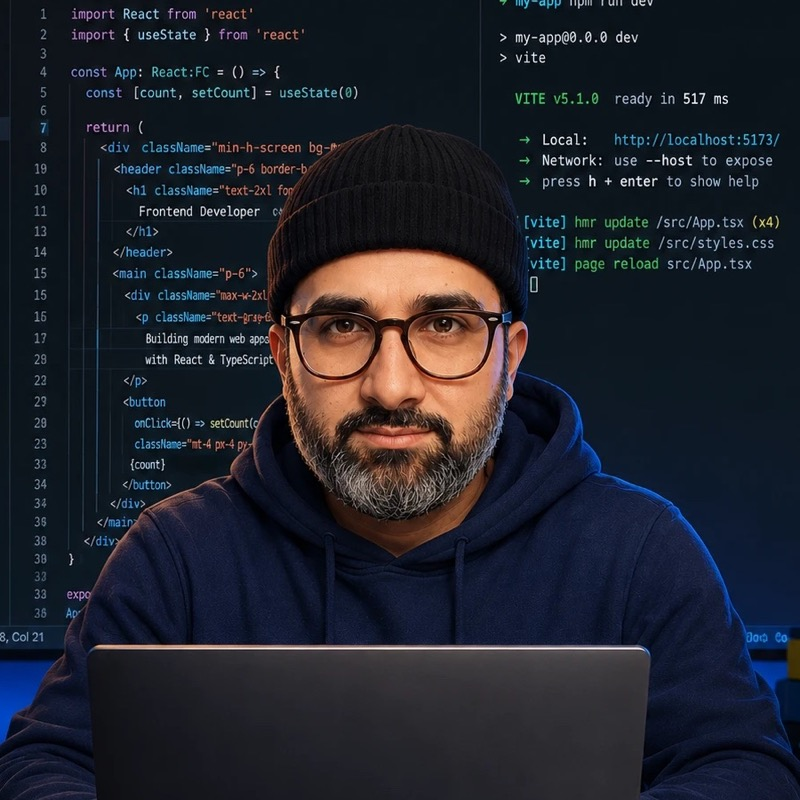
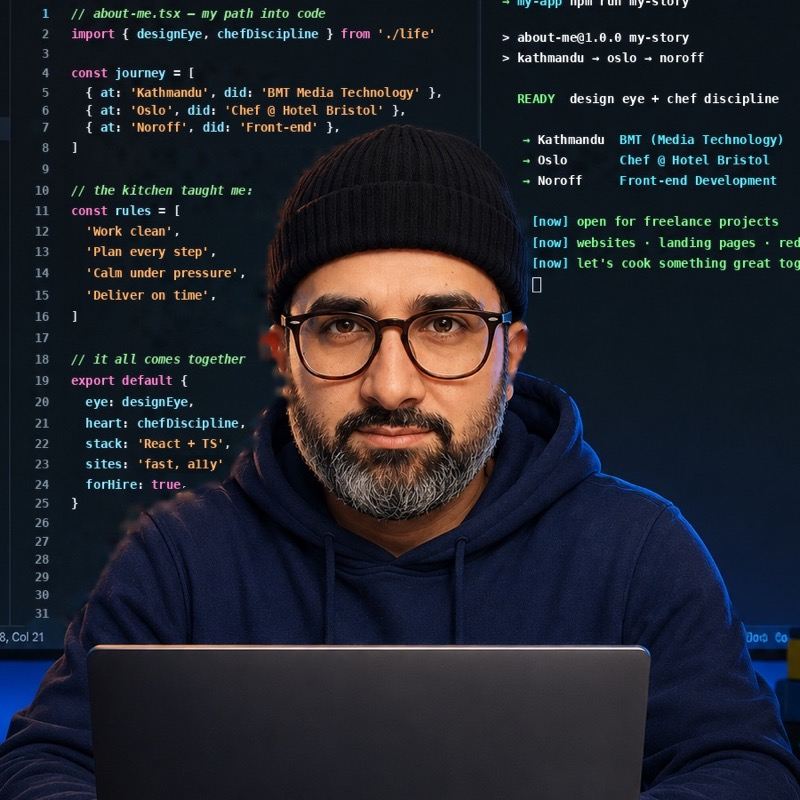
Update hero intro text

diff --git a/index.html b/index.html
@@ -104,8 +104,8 @@
                 <span class="text-gradient">I build for the web.</span>
               </h1>
               <p class="hero__intro">
-                Responsive, accessible websites made with React, TypeScript and Tailwind CSS — and real care for
-                the details users notice.
+                I love building responsive, accessible websites with React, TypeScript and Tailwind CSS, with real
+                care for the user experience.
               </p>
               <div class="button-group">
                 <a href="#projects" class="btn">
@@ -120,12 +120,12 @@
             </div>
 
             <div class="hero__photo">
-              <span class="ring ring--slow" aria-hidden="true"></span>
+              <span class="ring ring--slow ring--code" aria-hidden="true"></span>
               <div class="hero__photo-frame">
                 <!-- fetchpriority: load the main image first. width/height stop the layout jumping -->
                 <img
                   src="images/photo.jpg"
-                  alt="Ramesh Ghimire at his laptop, with code in the background"
+                  alt="Ramesh Ghimire at his laptop, with his story written as code on the screen behind him"
                   width="800"
                   height="800"
                   fetchpriority="high">

diff --git a/css/style.css b/css/style.css
@@ -252,6 +252,24 @@ main {
   animation: spin 6s linear infinite;
 }
 
+/* Ring in the syntax colours from the code in the photo:
+   pink keywords, yellow strings, green terminal text, cyan and blue names, purple.
+   The colours fade into a short gap, like a comet's tail, so you can see it spin. */
+.ring--code {
+  background: conic-gradient(
+    from 0deg,
+    #f472b6,
+    #facc15 15%,
+    #4ade80 30%,
+    #22d3ee 45%,
+    #60a5fa 60%,
+    #c084fc 72%,
+    transparent 85%,
+    #f472b6
+  );
+  animation-duration: 10s;
+}
+
 /* Paused until the cursor (or keyboard focus) is on the button */
 .ring--hover {
   opacity: 0.6;
